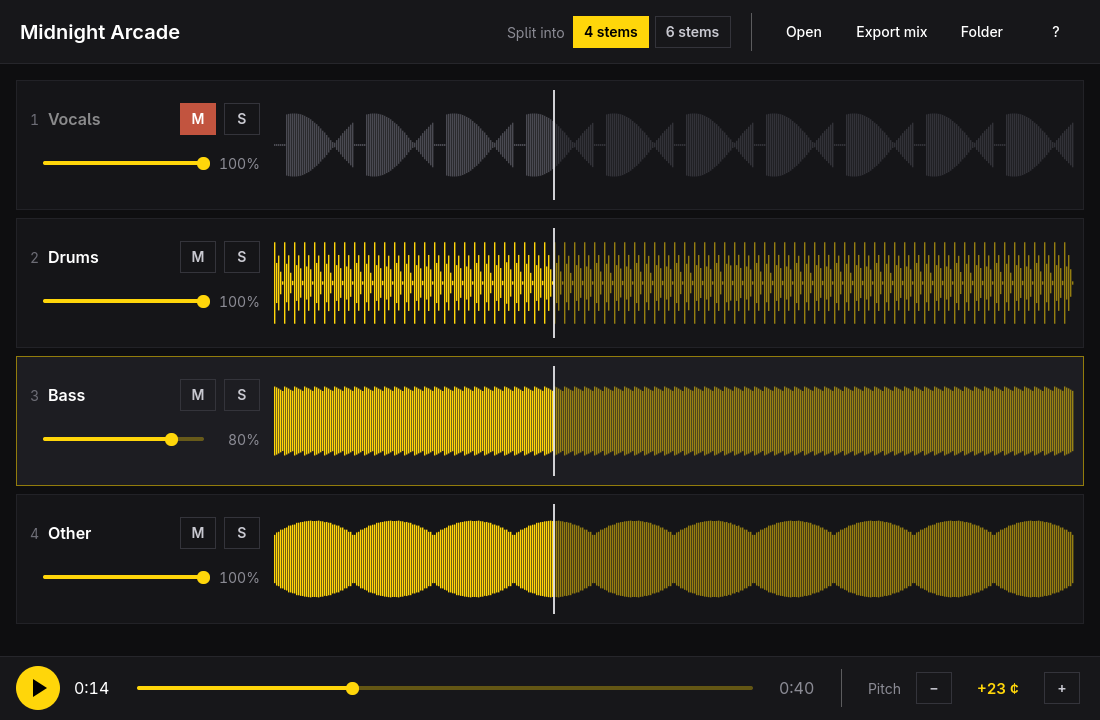
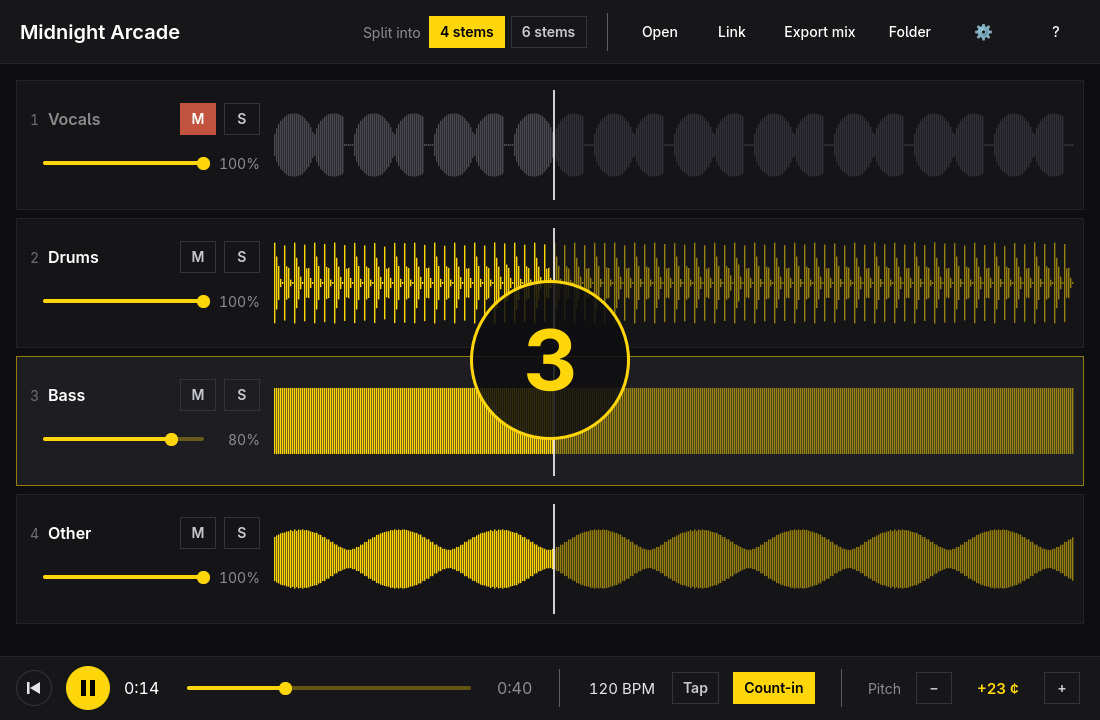
Show the count-in, tempo and back-to-start button in the screenshot

diff --git a/README.md b/README.md
@@ -1,6 +1,6 @@
 # Stems
 
-![Stems playing a song split into vocals, drums, bass and other, with the vocals muted and the pitch raised 23 cents](docs/screenshot.png)
+![Stems counting in to a 120 BPM song split into vocals, drums, bass and other, with the vocals muted and the pitch raised 23 cents](docs/screenshot.png)
 
 Stems splits a song into its instruments and plays them back together, so you
 can solo the bass line, mute the vocals for karaoke, or hear what the drummer
